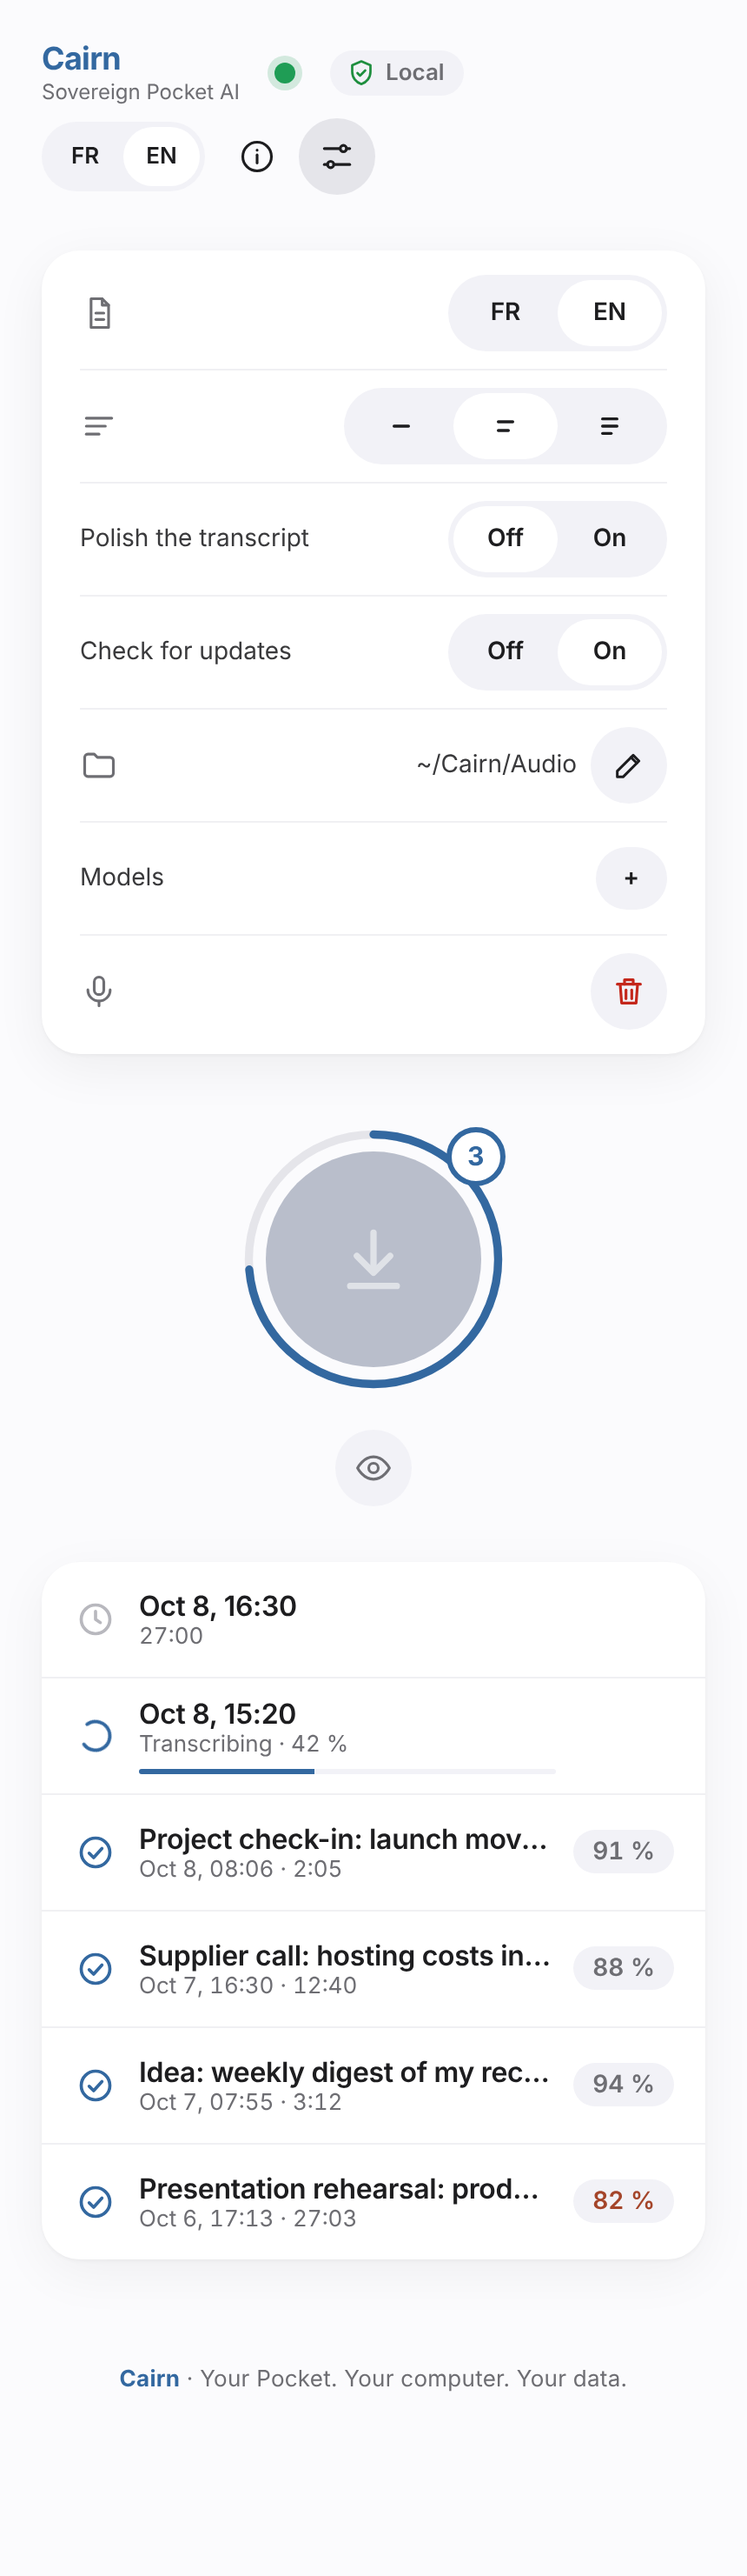
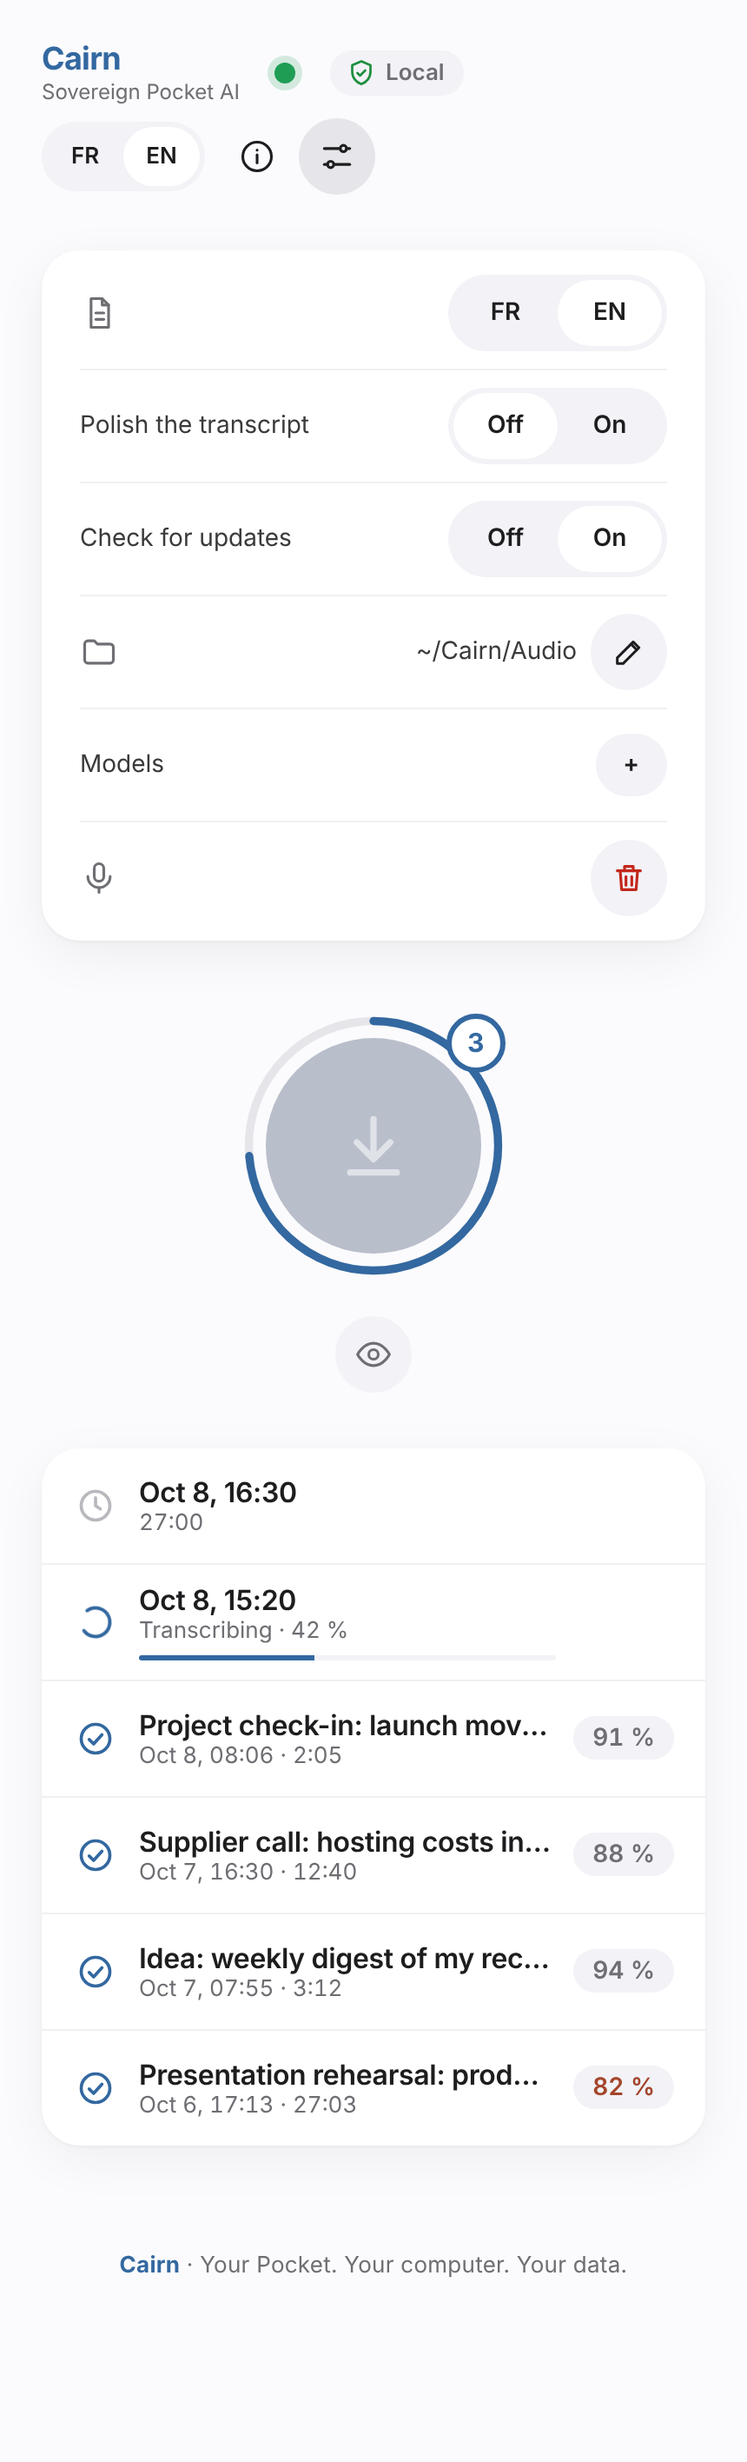
Level of detail per recording; transcribe again on one recording
Claude-Session: https://claude.ai/code/session_011cjUvj5utwUPtNVyi6uca5

diff --git a/cairn/web/app.js b/cairn/web/app.js
@@ -15,7 +15,7 @@
       mRam: "{n} Go de mémoire conseillés", mConfirm: "Télécharger {name} ({size}) ? Une connexion internet est utilisée pour ce seul téléchargement.",
       mDownloading: "Téléchargement {pct} %", mFailed: "Échec du téléchargement : ", mDone: "Modèle installé", mDown: "Moteur local arrêté", mBusy: "Un traitement est en cours",
       settings: "Réglages", transcriptLang: "Langue du transcript", transcriptLangHint: "Langue des résumés",
-      detail: "Niveau de détail par défaut", short: "Court", mid: "Normal", full: "Complet",
+      detail: "Niveau de détail", reprocess: "Retranscrire", reprocessHint: "Refaire la transcription et le résumé au niveau choisi", reprocessConfirm: "Retranscrire cet enregistrement ? Le texte et le résumé seront remplacés (le nom que vous avez choisi est conservé). Comptez autant de temps que la première fois.", short: "Court", mid: "Normal", full: "Complet",
       shortHint: "Court : TL;DR et actions", midHint: "Normal : + contexte et points clés", fullHint: "Complet : + détail par sujet",
       emptyPocket: "Vider le Pocket", emptyHint: "Vider le Pocket (copies vérifiées)",
       emptyConfirm: "Vider le Pocket ? {n} copies vérifiées sur {m}.", emptyNone: "Le Pocket est vide.",
@@ -53,7 +53,7 @@
       mRam: "{n} GB of memory advised", mConfirm: "Download {name} ({size})? An internet connection is used for this download only.",
       mDownloading: "Downloading {pct}%", mFailed: "Download failed: ", mDone: "Model installed", mDown: "Local engine stopped", mBusy: "A job is running",
       settings: "Settings", transcriptLang: "Transcript language", transcriptLangHint: "Summary language",
-      detail: "Default level of detail", short: "Short", mid: "Standard", full: "Detailed",
+      detail: "Level of detail", reprocess: "Transcribe again", reprocessHint: "Redo the transcription and the summary at the chosen level", reprocessConfirm: "Transcribe this recording again? The text and the summary will be replaced (the name you chose is kept). Allow as much time as the first time.", short: "Short", mid: "Standard", full: "Detailed",
       shortHint: "Short: TL;DR and actions", midHint: "Standard: + context, key points", fullHint: "Detailed: + detail per topic",
       emptyPocket: "Empty the Pocket", emptyHint: "Empty the Pocket (copies verified)",
       emptyConfirm: "Empty the Pocket? {n} of {m} copies verified.", emptyNone: "The Pocket is empty.",
@@ -131,7 +131,10 @@
   function ui() { return S.ui || (S.server && S.server.settings.ui) || ((navigator.language || "en").slice(0, 2) === "fr" ? "fr" : "en"); }
   function T() { return D[ui()]; }
   function tr() { return (S.server && S.server.settings.tr) || ui(); }
-  function level() { return (S.server && S.server.settings.level) || "mid"; }
+  function noteLevel(id) {
+    var n = S.server && S.server.notes ? S.server.notes.filter(function (x) { return x.id === id; })[0] : null;
+    return (n && n.level) || "mid";
+  }
 
   function api(method, path, body) {
     var opt = { method: method, headers: {} };
@@ -228,7 +231,6 @@
   function viewSettings(t, st) {
     var h = '<div class="card panel">';
     h += '<div class="setrow"' + tip(t.transcriptLangHint) + ">" + I.doc + segLang("tr", tr(), "s38", t, t.transcriptLangHint) + "</div>";
-    h += '<div class="hr"></div><div class="setrow"' + tip(t.detail) + ">" + I.lines + seg3("lvl", level(), "s38", t) + "</div>";
     h += '<div class="hr"></div><div class="setrow"' + tip(t.polishHint) + '><span class="text" style="font-size:14px">' + esc(t.polish) + '</span><div class="seg s38">' +
       [["0", t.off, false], ["1", t.on, true]].map(function (o) {
         return '<button type="button" data-a="polish" data-v="' + o[0] + '" class="' + bg(!!st.settings.polish === o[2]).trim() + '">' + esc(o[1]) + "</button>";
@@ -315,6 +317,8 @@
     if (S.exp === n.id) {
       h += '<div class="exp"><button type="button" class="main" data-a="expCopy"' + tip(t.copyRichHint) + ">" + I.copy + '</button><button type="button" data-a="expMd"' + tip(t.expMdHint) + '>MD</button><button type="button" data-a="expHtml"' + tip(t.expHtmlHint) + ">HTML</button></div>";
     }
+    h += '<div class="row gap8" style="margin-top:8px"><button type="button" class="mbtn" data-a="askReprocess"' + (S.server && S.server.job && S.server.job.running ? " disabled" : "") + tip(t.reprocessHint) + ">" + esc(t.reprocess) + "</button></div>";
+    if (S.reConfirm) { h += confirmBox(t.reprocessConfirm, "confirmReprocess", t); }
     if (S.delConfirm) { h += confirmBox(t.deleteConfirm, "confirmDelete", t); }
     if (n.error) { h += '<div class="err">' + esc(t.error + n.error) + "</div>"; }
     if (full && full.summary) {
@@ -342,7 +346,7 @@
   }
 
   function queueActions(n, job, t) {
-    var h = '<div class="detail"><div class="row gap8">';
+    var h = '<div class="detail"><div class="row gap8">' + seg3("rr", S.rr, "s36", t);
     if (job.running && job.id === n.id) {
       h += '<button type="button" class="ib" data-a="stopJob"' + tip(t.stopJob) + ">" + I.stop + "</button>";
     } else {
@@ -487,7 +491,6 @@
     tr: function (v) { api("POST", "/api/settings", { tr: v }).then(refresh); },
     polish: function (v) { api("POST", "/api/settings", { polish: v === "1" }).then(refresh); },
     autocheck: function (v) { api("POST", "/api/settings", { autocheck: v === "1" }).then(refresh); },
-    lvl: function (v) { api("POST", "/api/settings", { level: v }).then(refresh); },
     settings: function () { S.settingsOpen = !S.settingsOpen; S.emptyConfirm = false; },
     about: function () {
       S.aboutOpen = !S.aboutOpen;
@@ -501,8 +504,19 @@
     import: function () {
       api("POST", "/api/import").then(refresh).catch(function (e) { flash(T().error + e.message); });
     },
-    row: function (v, id) { S.open = S.open === id ? null : id; S.delConfirm = false; S.edit = null; S.exp = null; S.rr = level(); if (S.open) { loadFull(id); } },
-    rr: function (v) { S.rr = v; },
+    row: function (v, id) { S.open = S.open === id ? null : id; S.delConfirm = false; S.edit = null; S.exp = null; S.reConfirm = false; S.rr = noteLevel(id); if (S.open) { loadFull(id); } },
+    rr: function (v) {
+      S.rr = v;
+      var id = S.open, n = S.server && S.server.notes ? S.server.notes.filter(function (x) { return x.id === id; })[0] : null;
+      if (n && n.status !== "done") { api("POST", "/api/note/" + encodeURIComponent(id) + "/level", { level: v }).then(refresh); }
+    },
+    askReprocess: function () { S.reConfirm = true; },
+    confirmReprocess: function () {
+      var t = T(), id = S.open;
+      S.reConfirm = false;
+      api("POST", "/api/note/" + encodeURIComponent(id) + "/process", { level: S.rr, again: true }).then(function () { delete S.full[id]; refresh(); })
+        .catch(function (e) { flash(t.error + e.message); });
+    },
     rerun: function () {
       var t = T(), id = S.open;
       api("POST", "/api/note/" + encodeURIComponent(id) + "/rerun", { level: S.rr }).then(function () { delete S.full[id]; flash(t.rerunning + t[S.rr].toLowerCase()); refresh(); })
@@ -530,7 +544,7 @@
       var id = S.open;
       api("POST", "/api/note/" + encodeURIComponent(id) + "/delete").then(function () { S.open = null; S.delConfirm = false; flash(T().deleted); refresh(); });
     },
-    cancel: function () { S.delConfirm = false; S.emptyConfirm = false; S.mAsk = null; S.mDel = null; },
+    cancel: function () { S.delConfirm = false; S.reConfirm = false; S.emptyConfirm = false; S.mAsk = null; S.mDel = null; },
     askEmpty: function () {
       S.emptyConfirm = true; S.verify = null;
       api("GET", "/api/pocket/verify").then(function (v) { S.verify = v; render(); }).catch(function () { S.verify = { total: 0, verified: 0 }; render(); });

diff --git a/tests/test_app.py b/tests/test_app.py
@@ -204,11 +204,22 @@ class AppTest(unittest.TestCase):
         self.assertEqual(full["title"], "Mon titre")  # a chosen name survives a rerun
         self.assertEqual(full["level"], "short")
         self.assertEqual(self.c.call("POST", "/api/note/%s/rerun" % note_id, {"level": "nope"})[0], 400)
+        # the level belongs to the recording: it can be chosen, and a finished one can be transcribed again
+        self.assertEqual(self.c.call("POST", "/api/note/%s/level" % note_id, {"level": "full"})[0], 200)
+        self.assertEqual(self.c.call("POST", "/api/note/%s/level" % note_id, {"level": "nope"})[0], 400)
+        self.assertEqual(self.c.call("POST", "/api/note/%s/process" % note_id, {})[0], 400)  # done: needs again
+        before = len(StubModel.calls)
+        self.assertEqual(self.c.call("POST", "/api/note/%s/process" % note_id, {"again": True, "level": "mid"})[0], 202)
+        self.wait_idle()
+        _, full = self.c.call("GET", "/api/note/" + note_id)
+        self.assertEqual((full["status"], full["level"], full["title"]), ("done", "mid", "Mon titre"))
+        self.assertGreater(len(StubModel.calls), before)
 
     def test_07_settings(self):
-        self.assertEqual(self.c.call("POST", "/api/settings", {"ui": "fr", "tr": "en", "level": "full"})[0], 200)
+        self.assertEqual(self.c.call("POST", "/api/settings", {"ui": "fr", "tr": "en"})[0], 200)
         _, st = self.c.call("GET", "/api/state")
-        self.assertEqual((st["settings"]["ui"], st["settings"]["tr"], st["settings"]["level"]), ("fr", "en", "full"))
+        self.assertEqual((st["settings"]["ui"], st["settings"]["tr"]), ("fr", "en"))
+        self.assertEqual(self.c.call("POST", "/api/settings", {"level": "full"})[0], 400)  # no global level any more
         self.assertEqual(self.c.call("POST", "/api/settings", {"ui": "xx"})[0], 400)
         self.assertEqual(self.c.call("POST", "/api/settings", {"audio_dir": "relative/path"})[0], 400)
 

diff --git a/cairn/jobs.py b/cairn/jobs.py
@@ -78,11 +78,22 @@ class Jobs:
             note["status"] = "waiting"
             self.store.save(note)
 
-    def start_process(self, note_id):
-        """Process one chosen recording now."""
+    def set_level(self, note_id, level):
+        """Choose the level of detail of one recording (standard until chosen otherwise)."""
+        if level not in config.LEVELS:
+            raise ValueError("bad_level")
         note = self.store.get(note_id)
-        if note.get("status") == "done" or not os.path.exists(note.get("audio", "")):
+        note["level"] = level
+        self.store.save(note)
+
+    def start_process(self, note_id, level=None, again=False):
+        """Process one chosen recording now. With again=True a finished recording is transcribed anew
+        (the previous text stays in place until the new one is ready)."""
+        note = self.store.get(note_id)
+        if (note.get("status") == "done" and not again) or not os.path.exists(note.get("audio", "")):
             raise ValueError("not_processable")
+        if level is not None:
+            self.set_level(note_id, level)
         self._start("import", self._one, note_id)
 
     def _one(self, note_id):
@@ -175,7 +186,7 @@ class Jobs:
     def _process(self, note_id, settings):
         note = self.store.get(note_id)
         lang = settings["tr"] or "en"
-        level = settings["level"]
+        level = note.get("level") if note.get("level") in config.LEVELS else "mid"  # chosen per recording
 
         def step(name):
             note["status"], note["step"] = name, name

diff --git a/cairn/server.py b/cairn/server.py
@@ -455,10 +455,17 @@ def make_handler(app):
                 except jobs.Busy:
                     raise ApiError(409, "busy")
                 return self._json(202, {"ok": True})
+            if method == "POST" and action == "level":
+                app.get_note(note_id)
+                try:
+                    app.jobs.set_level(note_id, body.get("level"))
+                except ValueError as error:
+                    raise ApiError(400, str(error))
+                return self._json(200, {"ok": True})
             if method == "POST" and action == "process":
                 app.get_note(note_id)
                 try:
-                    app.jobs.start_process(note_id)
+                    app.jobs.start_process(note_id, body.get("level"), body.get("again") is True)
                 except jobs.Busy:
                     raise ApiError(409, "busy")
                 except ValueError as error:

diff --git a/cairn/config.py b/cairn/config.py
@@ -17,7 +17,7 @@ LOOPBACK = re.compile(r"127\.0\.0\.1:\d{2,5}")
 DEFAULT_LLM = "qwen3:4b"
 LEVELS = ("short", "mid", "full")
 LANGS = ("fr", "en")
-DEFAULT_SETTINGS = {"ui": None, "tr": None, "level": "mid", "audio_dir": None, "llm": None, "speech": None, "polish": False, "autocheck": True}
+DEFAULT_SETTINGS = {"ui": None, "tr": None, "audio_dir": None, "llm": None, "speech": None, "polish": False, "autocheck": True}
 
 _lock = threading.RLock()
 
@@ -101,8 +101,6 @@ def save_settings(patch):
                 current["ui"] = value
             elif key == "tr" and value in LANGS:
                 current["tr"] = value
-            elif key == "level" and value in LEVELS:
-                current["level"] = value
             elif key in ("polish", "autocheck") and isinstance(value, bool):
                 current[key] = value
             elif key == "llm" and value in catalog.LLM_IDS:

diff --git a/docs/GUIDE.md b/docs/GUIDE.md
@@ -2,7 +2,7 @@
 
 ## Choosing what to process
 
-Tap a waiting recording to process it now: Cairn does that one first, then carries on with every other waiting recording, newest first. Recordings you put back while it runs are picked up too. Skip a recording to leave it out of the queue (it can be restored). Stop interrupts the current job. Secure mode hides the list of notes until you reveal it.
+Tap a waiting recording to process it now: Cairn does that one first, then carries on with every other waiting recording, newest first. Recordings you put back while it runs are picked up too. Each recording has its own level of detail (short, standard, detailed; standard by default): choose it before processing, in the same panel. Skip a recording to leave it out of the queue (it can be restored). Stop interrupts the current job. On a finished note, the circular arrow rewrites the summary at the chosen level, and **Transcribe again** redoes the transcription and the summary (your chosen name is kept; the previous text stays until the new one is ready). Secure mode hides the list of notes until you reveal it.
 
 ## Models
 

diff --git a/README.md b/README.md
@@ -62,7 +62,7 @@ You need neither the Pocket desktop app nor a Pocket account on the computer.
 
 1. Start Cairn: open `~/Cairn/Cairn.app` (macOS), the Start menu shortcut or `Cairn.cmd` (Windows), or run `~/Cairn/bin/cairn`. A page opens, served only by your computer and protected by a session key.
 2. Click **Import**. Cairn copies and verifies every recording.
-3. It transcribes each one with Whisper, then cleans, titles and summarizes it with a local model (Qwen3 through Ollama), at a short, standard or detailed level. Each note carries a reliability score and flags the passages worth checking.
+3. It transcribes each one with Whisper, then cleans, titles and summarizes it with a local model (Qwen3 through Ollama), at a short, standard or detailed level that you choose for each recording. Each note carries a reliability score and flags the passages worth checking.
 4. Rename, copy or export a note (Markdown, HTML). Exports go to `~/Cairn/Exports`.
 5. Optionally empty the Pocket, only after every copy is verified.
 

diff --git a/docs/ROADMAP.md b/docs/ROADMAP.md
@@ -8,7 +8,7 @@
 - Local transcription with a reliability score per recording
 - Cleaning, title, TL;DR, actions, key points
 - Automatic templates (meeting, call, presentation, idea, other)
-- Short, standard and detailed levels, rerun on one recording
+- Level of detail chosen per recording (short, standard, detailed), summary rerun or new transcription on one recording
 - Rename, copy, export (Markdown, HTML)
 - Light default install, larger models on demand, removable from the app
 - Process one recording, skip or restore, stop, newest first
